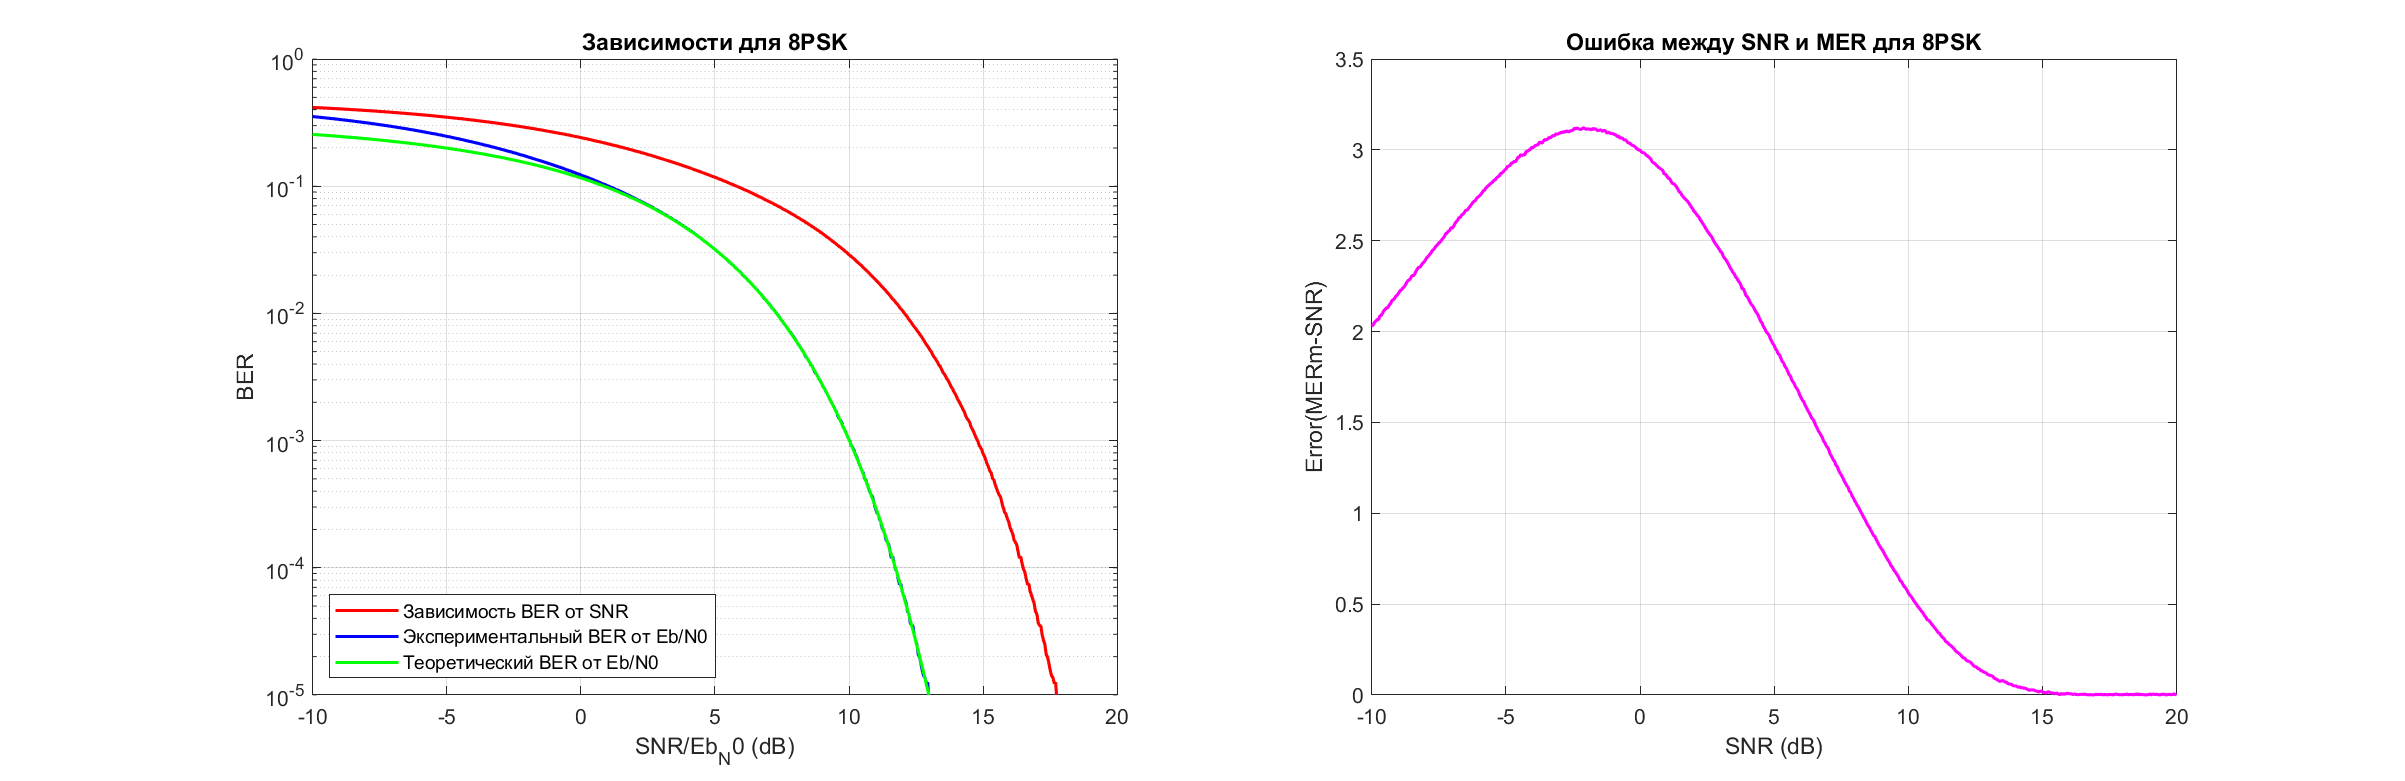
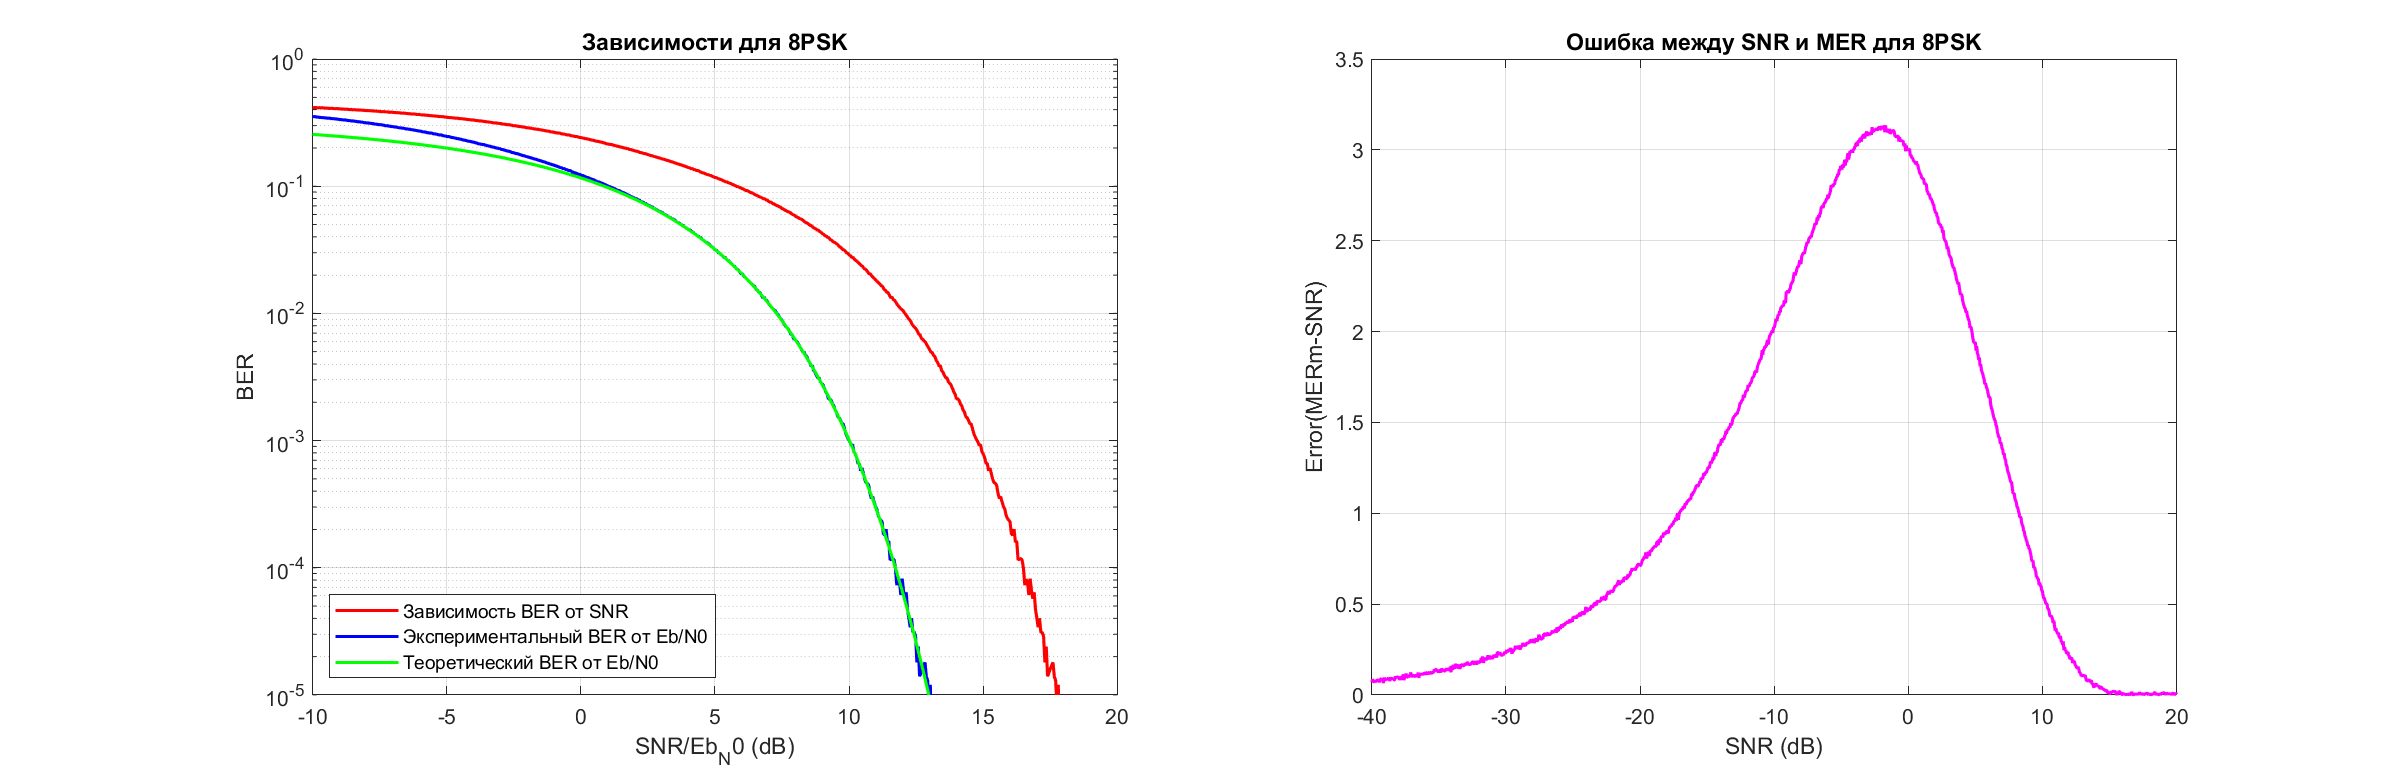
some final changes for the final review

diff --git a/task5/Main_BER_SNR.m b/task5/Main_BER_SNR.m
@@ -1,6 +1,6 @@
 close all; clear; clc;
 %% Init parametrs of model
-Length_Bit_vector = 1e7;
+Length_Bit_vector = 1e6;
 rng(321); % Fix the seed of the random number generator
 
 Constellation = "16QAM"; % BPSK, QPSK, 8PSK, 16QAM
@@ -38,9 +38,10 @@ BER = Error_check(Bit_Tx, Bit_Rx);
 
 constellations = ["BPSK", "QPSK", "8PSK", "16QAM"];
 
-SNR = -10:0.05:20;
+SNR = -40:0.05:20;
 BERt_all=zeros(size(SNR,2),size(constellations,2));
 BERm_all=zeros(size(SNR,2),size(constellations,2));
+Merm_all=zeros(size(SNR,2),size(constellations,2));
 
 EbN0_all=zeros(size(SNR,2),size(constellations,2));
 
@@ -64,6 +65,7 @@ for p = 1:length(constellations)
     toc
     BERm_all(:,p)=BERm;
     EbN0_all(:,p)=EbN0;
+    Merm_all(:,p)=MERm;
 
     figure('Position', [100 0 1720 500]);
     subplot(1, 2, 1);
@@ -135,7 +137,7 @@ for p = 1:length(constellations)
     name=Constellation+"_BER от SNR и от Eb_N0 и MER.png";
     saveas(gcf,name);
 end
-%% All in one
+%% All in one (AiO)
 figure();
 plot(EbN0_all(:,1), BERm_all(:,1),'r','LineWidth',2);
 hold on;
@@ -151,8 +153,44 @@ ylabel('BER');
 title('Зависимость BER от Eb/N0 для ' + strjoin(constellations,', '));
 grid on;
 hold on;
-name="All in One.png";
-xlim([-10 15]);
+name="AiO BER(Eb_N0).png";
+xlim([-10 20]);
+saveas(gcf,name);
+
+figure();
+plot(SNR, BERm_all(:,1),'r','LineWidth',2);
+hold on;
+plot(SNR, BERm_all(:,2),'b','LineWidth',2);
+hold on;
+plot(SNR, BERm_all(:,3),'g','LineWidth',2);
+hold on;
+plot(SNR, BERm_all(:,4),'black','LineWidth',2);
+legend("BPSK", "QPSK", "8PSK", "16QAM", 'Location','southwest');
+set(gca, 'YScale', 'log');
+xlabel('Eb/N0 (dB)');
+ylabel('BER');
+title('Зависимость BER от Eb/N0 для ' + strjoin(constellations,', '));
+grid on;
+hold on;
+name="AiO BER(SNR).png";
+xlim([-10 20]);
+saveas(gcf,name);
+
+figure();
+plot(SNR, abs(Merm_all(:,1).'-SNR),'r','LineWidth',2);
+hold on;
+plot(SNR, abs(Merm_all(:,2).'-SNR),'b','LineWidth',2);
+hold on;
+plot(SNR, abs(Merm_all(:,3).'-SNR),'g','LineWidth',2);
+hold on;
+plot(SNR, abs(Merm_all(:,4).'-SNR),'black','LineWidth',2);
+legend("BPSK", "QPSK", "8PSK", "16QAM", 'Location','southwest');
+xlabel('SNR (dB)');
+ylabel('Error(MERm-SNR)');
+title('Ошибка между SNR и MER для' + strjoin(constellations,', '));
+grid on;
+hold on;
+name="AiO MER(SNR).png";
 saveas(gcf,name);
 %% Functions
 
